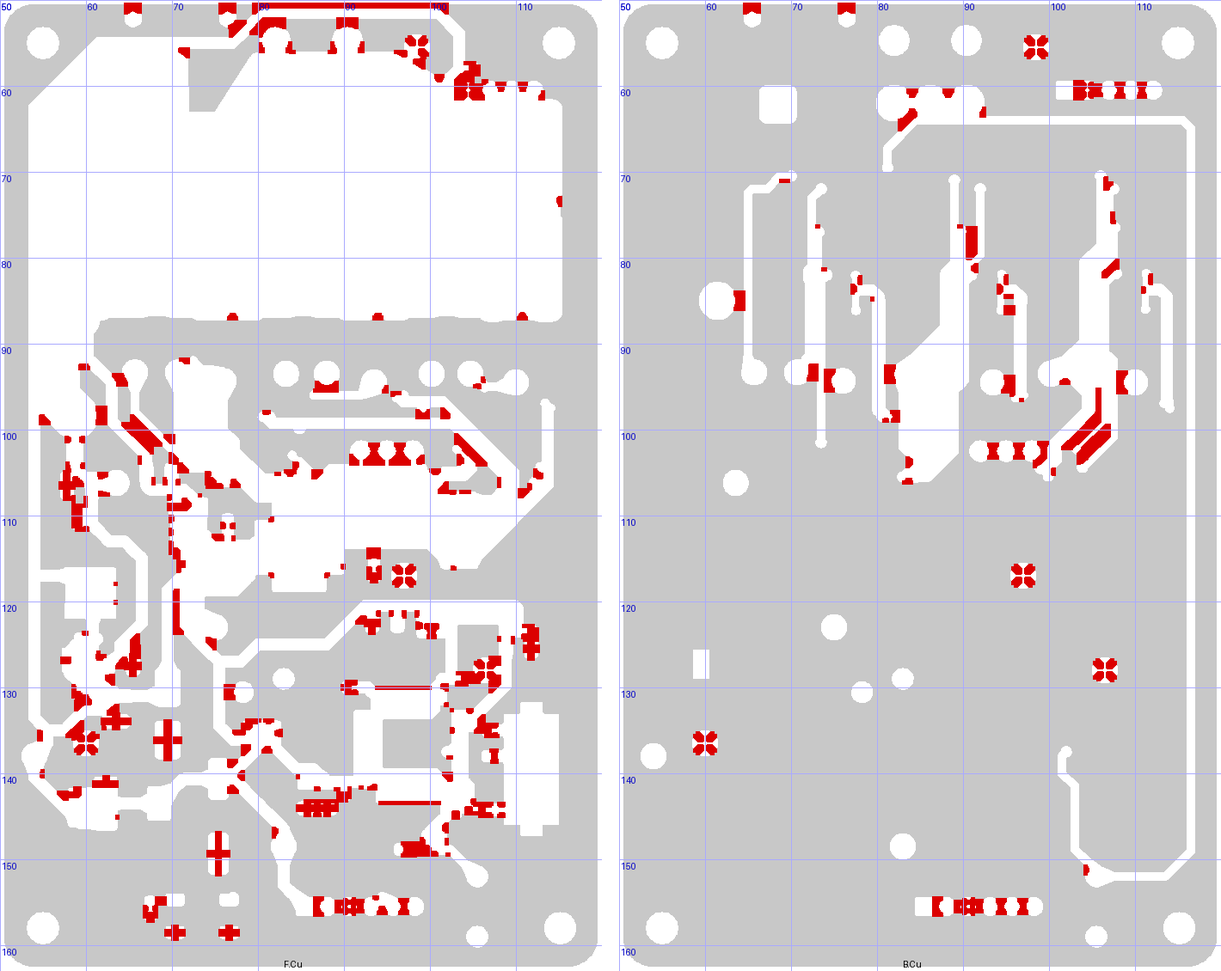
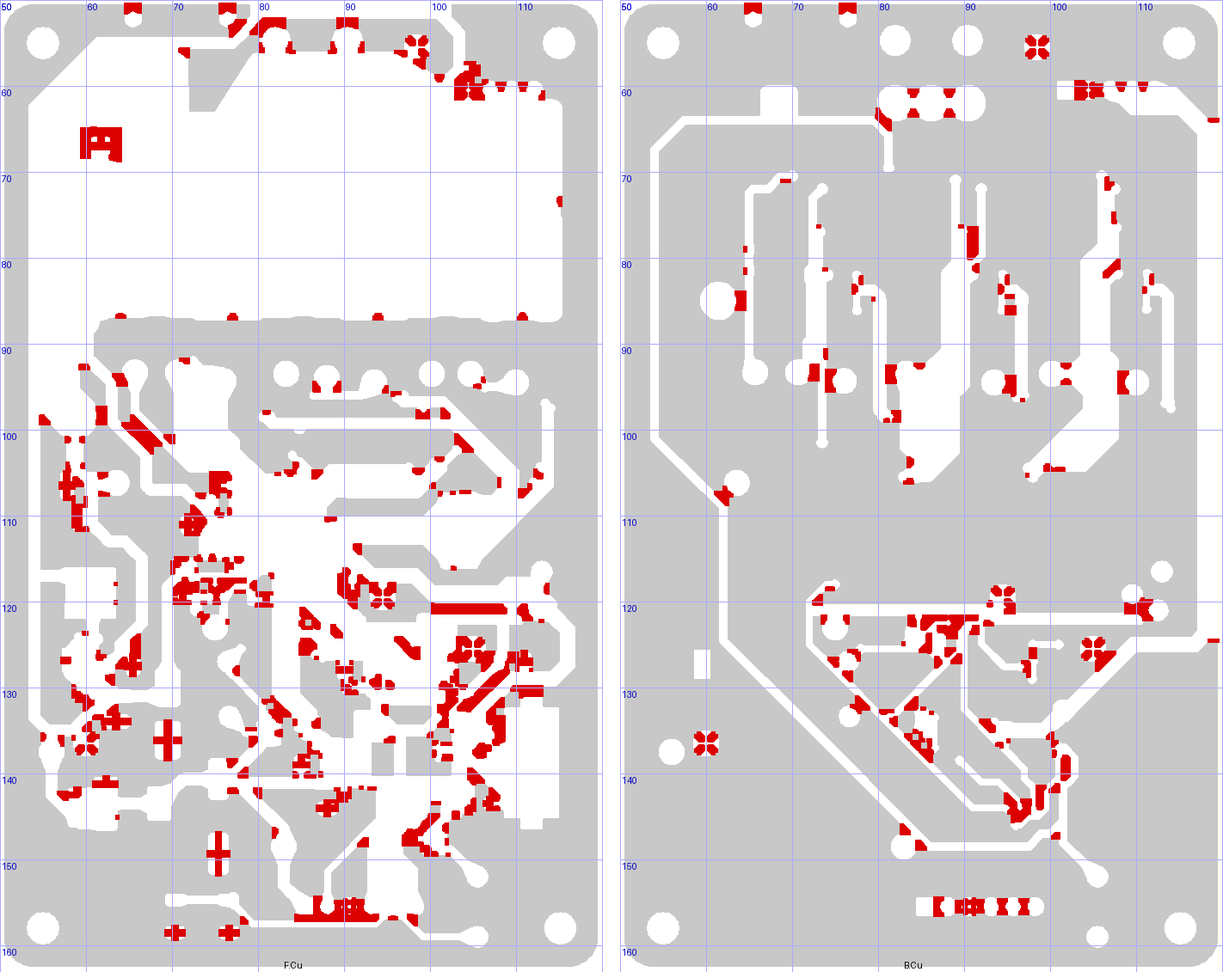
feat(hw15): update README and add checklist for homework 15, including EMC/EMI results and documentation

diff --git a/assignments/homework_15/pull-request.md b/assignments/homework_15/pull-request.md
@@ -1,0 +1,123 @@
+## Завдання
+
+Електромагнітна сумісність (EMC/EMI):
+- закінчити трасування плати;
+- залити земляний полігон, зшити (stitching) землі на різних шарах;
+- якщо є BT-модуль — зробити виріз полігону землі (cut-out) за datasheet;
+- пройти DRC.
+
+**Звіт по 15 домашньому завданню:** [`assignments/homework_15/README.md`](../blob/hw15/assignments/homework_15/README.md).
+
+## Що зроблено
+
+Плата розведена повністю: **DRC — 0 порушень, 0 нерозведених** (на початку — 118), 0 розбіжностей
+зі схемою; ERC — 0.
+
+![Шари міді: F.Cu, In1.Cu, In2.Cu, B.Cu](../blob/hw15/assignments/homework_15/images/layers.png?raw=true)
+
+**1. Шари і полігони GND.** Стек сигнал / GND / GND / сигнал:
+
+| Шар | Призначення |
+|-----|-------------|
+| F.Cu | компоненти, сигнали, силові полігони ДЗ 13, заливка GND |
+| In1.Cu | суцільний GND, доріжки заборонені правилом `in1_gnd_no_tracks` |
+| In2.Cu | суцільний GND, без доріжок |
+| B.Cu | сигнали, заливка GND |
+
+- GND — пріоритет 0, силові полігони — 1–6; зазор GND до силової міді 1 мм.
+- Силові GND-пади (шунти, C25/C29/C32, XT1) і via термопада U2 — суцільно, без термобар'єра.
+- Землю не ділю на AGND/PGND: струм двигуна повертається від шунтів по In1/In2/B.Cu прямо під
+  силовим каскадом до XT1 і не проходить під MCU.
+
+**2. Трасування.** Сигнали — лише на F.Cu і B.Cu (доріжка на внутрішньому шарі прорізала б
+опорну землю).
+
+| Вузол | Що зроблено |
+|-------|-------------|
+| Драйвер U2 | конденсатори підкачки заряду й живлення впритул до виводів (DVDD 8.6 → 2.1 мм, CP1 9–10 → 3.6/5.2 мм, VCPH 12.4 → 4.3 мм), усе на F.Cu без via; додано C45 1 мкФ на VREF |
+| PWM, SPI, керування | 22–27 мм; порядок виводів INH/INL на U1 і U2 зворотний — перехрестя короткими ділянками на B.Cu |
+| `ANALOG.SO1–3` | SO1 ↔ SO3 поміняно на входах АЦП → усі три по F.Cu без via; TP4–TP6 на самій трасі |
+| MCU | C13 (NRST) 40 → 4 мм, C7 (VDDA) 12.9 → 4.1 мм, C10 (VCAP_2) 6.5 → 4.3 мм; кварц на F.Cu без via |
+| HALL, TEMP | по B.Cu, відсунуті від краю плати (язик GND уздовж краю 81 мм прибрано) |
+
+**3. Stitching.** 549 via GND:
+- біля кожного GND-пада SMD (≤ 1 мм від краю пада);
+- 8 × 0.8/0.4 на GND-пад кожного шунта (≈ 2.4 А на via), по 3 біля C25/C29/C32 і TVS VD1;
+- сітка 5 мм у заливках і 53 via по периметру. Крок 5 мм: для фронтів PWM ≲ 300 МГц λ/20 ≈ 25 мм;
+  спроба з кроком 1 мм (2343 via) нічого не давала й порушувала hole-to-hole;
+- via GND біля сигнальних via (≤ 2–3 мм) — зворотний струм переходить з In1 на In2.
+
+**4. BT cut-out** — не застосовно, радіомодуля немає.
+
+**5. Перевірки.**
+
+| Перевірка | Результат |
+|-----------|-----------|
+| DRC (з перезаливкою полігонів) | 0 порушень, 0 нерозведених, 0 розбіжностей зі схемою |
+| ERC | 0 / 0 |
+| Board Statistics | 623 наскрізних via; 2 мікровія (не ловить DRC) знайдено й виправлено на Through |
+| `check-parallel.py` | Kelvin/CS ↔ затвори, фази, PWM — зазор < 2 мм відсутній |
+| `check-gnd-tongues.py` | кожен шматок заливки > 1 мм² має via; In1/In2 — по одному шматку |
+
+**Зміни схеми, прошивки й налаштувань плати:**
+
+| Що | Було | Стало | Чому |
+|----|------|-------|------|
+| VREG (VREF) DRV8305N | R9 330 Ом від VDDA, без конденсатора | + C45 1 мкФ біля виводу 48 | фільтр опорної напруги підсилювачів струму ≈ 480 Гц |
+| Входи АЦП | SO1 → PC1, SO3 → PC3 | SO1 → PC3 (ADC3_IN13), SO3 → PC1 (ADC1_IN11) | траса SO без перехресть і via; канали АЦП ті самі |
+| Мін. зазор / доріжка | 0.1 / 0.15 мм | 0.2 / 0.2 мм | дешевше у виробництві |
+
+## Де дивитися
+
+- **Звіт:** [`assignments/homework_15/README.md`](../blob/hw15/assignments/homework_15/README.md)
+- **Інженерні рішення та відкриті питання:** [`design-notes.md`](../blob/hw15/motor-drive-controller/docs/design-notes.md)
+- **Плата:** [`motor-drive-controller.kicad_pcb`](../blob/hw15/motor-drive-controller/hardware/kicad/motor-drive-controller.kicad_pcb), правила DRC — [`motor-drive-controller.kicad_dru`](../blob/hw15/motor-drive-controller/hardware/kicad/motor-drive-controller.kicad_dru)
+- **Схеми:** [`gate-driver.kicad_sch`](../blob/hw15/motor-drive-controller/hardware/kicad/gate-driver.kicad_sch) (C45), [`mcu.kicad_sch`](../blob/hw15/motor-drive-controller/hardware/kicad/mcu.kicad_sch) (SO1 ↔ SO3)
+- **Скрипти перевірки:** [`tools/check-parallel.py`](../blob/hw15/tools/check-parallel.py), [`tools/check-gnd-tongues.py`](../blob/hw15/tools/check-gnd-tongues.py)
+- **Перевірка за чеклістом:** [`checklist.md`](../blob/hw15/assignments/homework_15/checklist.md)
+- **Схема у PDF, BOM, звіт ERC, звіт `.docx`:** вкладка **Checks → CI → Artifacts**.
+
+Локально:
+- `make hardware` — ERC + PDF + BOM;
+- `make report HW=15` — звіт у `.docx`;
+- `tools/check-gnd-tongues.py motor-drive-controller/hardware/kicad/motor-drive-controller.kicad_pcb --refill` — язики заливки GND.
+
+## Стан ERC/DRC і відкриті питання
+
+ERC: **0 error, 0 warning**. DRC: **0 порушень, 0 нерозведених**, 0 розбіжностей зі схемою.
+
+Відкриті питання:
+- **Пайка XT1 і J5** (з ДЗ 13) — пади під'єднані суцільно, перевірити на прототипі.
+- **Щілина 12.5 мм в In1/In2 під J5** — злиті антипади виводів роз'єму; сигнали над нею не йдуть — прийнято.
+- **Прошивка:** після обміну SO1 ↔ SO3 фазу A міряє ADC3, фазу C — ADC1.
+
+## Чекліст
+
+Детальна перевірка кожного пункту — у [`checklist.md`](../blob/hw15/assignments/homework_15/checklist.md).
+
+**Звіт**
+- [x] Звіт у Markdown, зображення в `images/`
+- [x] Рішення внесені в `design-notes.md`
+- [x] Документація проєкту (README, `architecture.md`) оновлена
+
+**Завдання**
+- [x] Трасування закінчено: 0 нерозведених
+- [x] Полігони GND на всіх шарах, In1/In2 суцільні
+- [x] Stitching: 549 via GND, крок 5 мм, периметр, via біля падів і сигнальних via
+- [x] BT cut-out — не застосовно
+- [x] DRC: 0 порушень
+
+**Схема (KiCad)**
+- [x] ERC: 0 error, 0 warning
+- [x] C45 на VREF, SO1 ↔ SO3
+- [x] BOM: 37 рядків, 89 компонентів
+
+**Плата (PCB)**
+- [x] DRC 0 / 0, без мікровія
+- [x] PWM ≠ аналог (`check-parallel.py`)
+- [x] Цілісність землі (`check-gnd-tongues.py`)
+- [x] Щілина під J5 — прийнято
+
+**Репозиторій**
+- [x] Немає абсолютних шляхів
+- [x] Скрипт `tools/check-gnd-tongues.py`

diff --git a/assignments/homework_15/checklist.md b/assignments/homework_15/checklist.md
@@ -1,0 +1,99 @@
+# Заняття 15: перевірка за чеклістом PR
+
+Стан гілки `hw15` на 19.11.2026. Перевірено автоматично:
+- ERC, схема PDF і BOM (`kicad-cli` 10.0.5, `make hardware`);
+- DRC на копії плати з перезаливкою полігонів і перевіркою відповідності схемі
+  (`kicad-cli pcb drc --refill-zones --schematic-parity --severity-all`);
+- Board Statistics (`kicad-cli pcb export stats`): типи via, отвори;
+- паралельні ділянки PWM, затворів, фаз і аналогових ліній ([`tools/check-parallel.py`](../../tools/check-parallel.py));
+- вузькі язики й острівці заливки GND ([`tools/check-gnd-tongues.py`](../../tools/check-gnd-tongues.py));
+- суцільність In1.Cu / In2.Cu (растр заливки, щілини ≥ 3 мм);
+- посилання на зображення й файли у звіті.
+
+Позначки: ✅ виконано · ⚠ частково · ❌ не виконано
+
+## Звіт
+
+- [x] ✅ **Звіт у Markdown, зображення в `images/`.**
+  [`README.md`](README.md) містить:
+  - розділ «Результат»: підсумкова таблиця, шари міді, 3D-вид, ключові рішення;
+  - план з 11 етапів (0–10) і для кожного — вимоги, що зроблено, перевірку, що прийнято;
+  - відкриті питання.
+
+  Усі 10 зображень на місці (`layers.png`, `3d-top.png`, `u2-area.png`,
+  `mcu-crystal.png`, `shunt-vias.png`, `gnd-tongues.png`, `remove-poligon-from-GND.png`,
+  `MCU.png`, `DC-DC.png`, `LDO.png`).
+- [x] ✅ **Рішення внесені в `design-notes.md`.**
+  - закрито пункти ДЗ 13 «GND не розведено» і «Сигнали MCU і драйвера не розведені»;
+  - VREG DRV8305N: конденсатор VREF C45 1 мкФ, R9 + C45 ≈ 480 Гц (позначення C16 після
+    перенумерації дісталося CP1);
+  - таблиця АЦП: SO1 ↔ SO3 поміняно, причина.
+- [x] ✅ **Документація проєкту оновлена.** Кореневий `README.md` (стан, інструмент
+  `check-gnd-tongues.py`), `assignments/README.md` (рядки ДЗ 14 і 15), `motor-drive-controller/README.md`
+  (стан плати, таблиця сигналів MCU), `docs/architecture.md` (SO → АЦП, VREG, шари PCB).
+
+## Завдання
+
+- [x] ✅ **Закінчити трасування плати.** DRC: **0 нерозведених** (на початку — 118).
+  Розведено: живлення драйвера U2 (п. 2), PWM/SPI/керування (п. 3), `ANALOG.SO1–3` (п. 4),
+  MCU — кварц, VCAP, NRST/BOOT0, SWD, HALL, TEMP (п. 3, 5). Сигнали лише на F.Cu і B.Cu.
+- [x] ✅ **Залити земляний полігон.** GND на всіх 4 шарах, пріоритет 0 (силові полігони — 1–6);
+  In1.Cu і In2.Cu — суцільні, по одному шматку; правило `in1_gnd_no_tracks`, зазор GND до
+  силової міді 1 мм (`gnd_zone_to_high_current`), суцільне підключення силових GND-падів
+  (`gnd_power_solid`) і термопада U2 (`u2_thermal_vias_solid`).
+- [x] ✅ **Зшити землі на різних шарах (stitching).** 549 via GND:
+  - via біля кожного GND-пада SMD (50 з 52 — ≤ 1 мм від краю пада; SW1 — 1.1 мм);
+  - 8 × 0.8/0.4 на GND-пад кожного шунта, по 3 біля C25/C29/C32, 3 біля TVS VD1;
+  - сітка 5 мм у заливках, 53 via по периметру;
+  - via GND біля сигнальних via: ≤ 2 мм — 22, 2–3 мм — 13, > 3 мм — 3 (повільні лінії).
+- [x] ✅ **BT cut-out.** Не застосовно — радіомодуля на платі немає (п. 8).
+- [x] ✅ **Пройти DRC.** 0 порушень, 0 нерозведених, 0 помилок footprint, 0 розбіжностей зі схемою.
+
+## Схема (KiCad)
+
+- [x] ✅ **ERC: 0 error, 0 warning.**
+- [x] ✅ **Зміни схеми.** C45 1 мкФ на VREG (VREF) DRV8305N; SO1 ↔ SO3 на входах MCU
+  (`mcu.kicad_sch`) разом з `.ioc`, `main.h`, `stm32f4xx_hal_msp.c`.
+- [x] ✅ **BOM.** 37 рядків, 89 компонентів (+ C45); Manufacturer, MPN і Supplier заповнені в усіх рядках.
+
+## Плата (PCB)
+
+- [x] ✅ **DRC: 0 / 0.** Вимкнені перевірки не ховають помилок: «Footprint has no courtyard» —
+  лише NetTie NT1–NT13.
+- [x] ✅ **Технологічні параметри.** Мін. доріжка / зазор 0.2 / 0.2 мм (замість 0.15 / 0.1 —
+  дешевше у виробництві), мін. отвір 0.3 мм; 623 наскрізних via, мікро / глухих — 0
+  (2 мікровія знайдено в Board Statistics і виправлено).
+- [x] ✅ **PWM ≠ аналог.** `check-parallel.py`: Kelvin/CS-лінії ↔ затвори, фази, PWM — зазор
+  < 2 мм відсутній; SO, TEMP, HALL, OSC ↔ цифрові й силові — < 1 мм лише NRST біля виводів U1
+  (NRST майже не перемикається, C13 100 нФ біля виводу).
+- [x] ✅ **Цілісність землі.** Шматків заливки > 1 мм² без via — 0; язики GND F.Cu 130 мм²,
+  B.Cu 38 мм² (було 119 мм² на B.Cu до перенесення TEMP і HALL від краю).
+- [x] ⚠ **Щілина 12.5 мм в In1/In2 під J5.** Злиті антипади THT-виводів роз'єму двигуна;
+  над нею сигнальні лінії не проходять — прийнято.
+
+## Репозиторій
+
+- [x] ✅ **Немає абсолютних шляхів.** У змінах гілки немає `/home/`.
+- [x] ✅ **Скрипт перевірки в `tools/`.** `tools/check-gnd-tongues.py` (`--help`, `--refill`, `--png`).
+- [x] ✅ **Правила `.kicad_dru` редагуються в Board Setup без втрат.** Коментарі в тілі правил,
+  одне обмеження на правило (via_diameter + hole_size — разом), мережі перелічені явно.
+
+## Підсумок
+
+| Розділ | ✅ | ⚠ | ❌ |
+|--------|:--:|:--:|:--:|
+| Звіт | 3 | – | – |
+| Завдання | 5 | – | – |
+| Схема | 3 | – | – |
+| Плата | 4 | 1 | – |
+| Репозиторій | 3 | – | – |
+| **Разом (19)** | **18** | **1** | **–** |
+
+Обов'язкові вимоги завдання 15 виконані: трасування закінчено, полігони GND залиті на всіх
+шарах, землі зшиті via, DRC пройдено (0 / 0). BT cut-out не потрібен.
+
+Додатково:
+- додано відсутній конденсатор VREF драйвера (C45);
+- SO1 ↔ SO3 на входах АЦП — аналогові лінії без via;
+- скрипт `tools/check-gnd-tongues.py` для пошуку вузьких язиків заливки;
+- знайдено поза DRC і виправлено 2 мікровія.

diff --git a/motor-drive-controller/README.md b/motor-drive-controller/README.md
@@ -10,7 +10,7 @@
 | Конфігурація MCU: SYSCLK 168 МГц, TIM1 ШІМ 20 кГц (center-aligned), SPI1 5.25 МГц, ADC1/2/3 triple injected simultaneous, GPIO драйвера і датчиків Холла | CubeMX (ДЗ 7–9) | [`firmware/motor-drive-controller.ioc`](firmware/motor-drive-controller.ioc) |
 | Прошивка: ініціалізація периферії, збірка CMake | збирається в CI | [`firmware/`](firmware/) |
 | Блок живлення: XT30 → запобіжник 1206TD-10AS → TVS SMBJ18A → шини +12M (SS10P4) / +12V (SS14), buck LMR51610 12 → 5 В, LDO AZ1117C 5 → 3.3 В, електроліти 150 мкФ на виходах | схема (ДЗ 10, 11, 12) | [`hardware/kicad/power.kicad_sch`](hardware/kicad/power.kicad_sch) |
-| Друкована плата: монтажні отвори M3, тестові точки, розміщення (ДЗ 12); трасування силової частини — доріжки 3.5 мм і полігони на F.Cu, Kelvin-лінії шунтів, правила `high_current` (ДЗ 13); лінії живлення 12V, 12_M, 5V, 3V3 — DC/DC і LDO (ДЗ 14, виконано в рамках ДЗ 13); GND і сигнали MCU не розведені | в роботі (ДЗ 12–14) | [`hardware/kicad/motor-drive-controller.kicad_pcb`](hardware/kicad/motor-drive-controller.kicad_pcb) |
+| Друкована плата: монтажні отвори M3, тестові точки, розміщення (ДЗ 12); трасування силової частини — доріжки 3.5 мм і полігони на F.Cu, Kelvin-лінії шунтів, правила `high_current` (ДЗ 13); лінії живлення 12V, 12_M, 5V, 3V3 — DC/DC і LDO (ДЗ 14, виконано в рамках ДЗ 13); повне трасування сигналів, In1/In2 — суцільний GND, stitching via, DRC 0 / 0 нерозведених (ДЗ 15) | в роботі (ДЗ 12–15) | [`hardware/kicad/motor-drive-controller.kicad_pcb`](hardware/kicad/motor-drive-controller.kicad_pcb) |
 
 Листи з'єднані ієрархічними шинами: `DRV{PWM6}`, `DRV{SPI}`, `DRV{CTRL}`,
 `DRV{STATUS}` (MCU ↔ Gate Driver), `GATE{GATE6}`, `PH{SENSE6}`, `CS{SHUNT6}`
@@ -35,18 +35,18 @@
 | DRV.WAKE | PC10 | вихід open-drain, FT (10 кОм до 5 В) | DRV8305 |
 | DRV.nFAULT | PC4 | вхід (open-drain, 10 кОм до 3.3 В) | DRV8305 |
 | DRV.PWRGD | PC5 | вхід (open-drain, 10 кОм до 3.3 В) | DRV8305 |
-| ANALOG.SO1 / SO2 / SO3 | PC1 / PC2 / PC3 | ADC1_IN11 / ADC2_IN12 / ADC3_IN13, injected, тригер TIM1 TRGO | виходи CSA драйвера |
+| ANALOG.SO1 / SO2 / SO3 | PC3 / PC2 / PC1 | ADC3_IN13 / ADC2_IN12 / ADC1_IN11, injected, тригер TIM1 TRGO (SO1 ↔ SO3 поміняно в ДЗ 15) | виходи CSA драйвера |
 | ANALOG.TEMP | PC0 | ADC1_IN10, regular | NTC на інверторі |
 | HALL1–HALL3 | PC6–PC8 | вхід, FT (5 V tolerant) | роз'єм J2 |
 
 ## Стан розведення плати
 
-ERC: 0 помилок, 0 попереджень. DRC: 0 порушень, 0 розбіжностей зі схемою (ДЗ 13).
-Розведено силову частину від XT1 до ключів, шунтів і J5 (на F.Cu, без via) та Kelvin-лінії
-шунтів до фільтрів CSA. Лишається:
+ERC: 0 помилок, 0 попереджень. DRC: 0 порушень, **0 нерозведених**, 0 розбіжностей зі схемою
+(ДЗ 15). Плата розведена повністю: силова частина на F.Cu (ДЗ 13), сигнали MCU і драйвера на
+F.Cu/B.Cu, In1.Cu і In2.Cu — суцільні шари GND, 549 via GND (stitching з кроком 5 мм, via біля
+кожного GND-пада, 8 via 0.8/0.4 на GND-пад шунта) — див. [ДЗ 15](../assignments/homework_15/README.md).
+Лишається:
 
-- **GND** — полігон землі, полігон GND між шунтами й C25/C29/C32, via біля шунтів;
-- **сигнали MCU і драйвера** — зокрема PWM і `ANALOG.SO1–3` подалі від фільтрів CSA;
 - **тепловідведення VD3 (SS10P4)** — ≈ 2.1 Вт при 5 А; полігон `+12M` на F.Cu є,
   полігону на B.Cu і via під катодом ще немає;
 - **захисні резистори** між SOx і входами АЦП;

diff --git a/assignments/README.md b/assignments/README.md
@@ -16,6 +16,7 @@
 | 12 | Основи PCB Layout та технології виробництва | [README](homework_12/README.md) | [`motor-drive-controller.kicad_pcb`](../motor-drive-controller/hardware/kicad/motor-drive-controller.kicad_pcb), [`motor-drive-controller.kicad_sch`](../motor-drive-controller/hardware/kicad/motor-drive-controller.kicad_sch) | в роботі |
 | 13 | Трасування (Routing) та полігони | [README](homework_13/README.md) | [`motor-drive-controller.kicad_pcb`](../motor-drive-controller/hardware/kicad/motor-drive-controller.kicad_pcb), [`motor-drive-controller.kicad_dru`](../motor-drive-controller/hardware/kicad/motor-drive-controller.kicad_dru), [`inverter.kicad_sch`](../motor-drive-controller/hardware/kicad/inverter.kicad_sch), [`tools/check-parallel.py`](../tools/check-parallel.py) | в роботі |
 | 14 | Трасування проєкту: лінії живлення 12V, 12_M, 5V, 3V3 | [README](homework_14/README.md) | виконано в рамках ДЗ 13: [`motor-drive-controller.kicad_pcb`](../motor-drive-controller/hardware/kicad/motor-drive-controller.kicad_pcb) | разом з ДЗ 13 |
+| 15 | Електромагнітна сумісність (EMC/EMI) | [README](homework_15/README.md) | [`motor-drive-controller.kicad_pcb`](../motor-drive-controller/hardware/kicad/motor-drive-controller.kicad_pcb), [`motor-drive-controller.kicad_dru`](../motor-drive-controller/hardware/kicad/motor-drive-controller.kicad_dru), [`tools/check-gnd-tongues.py`](../tools/check-gnd-tongues.py) | в роботі |
 
 **Здача:** Release `hwNN` — зафіксований стан на момент здачі з готовими файлами
 (звіт `.docx`, схема PDF, BOM); PR — завдання на перевірці. Після прийняття PR

diff --git a/README.md b/README.md
@@ -5,12 +5,12 @@
 Навчальний репозиторій курсу: домашні завдання та наскрізний проєкт —
 **контролер BLDC-двигуна** на STM32F405 (трифазний інвертор 12 В / 5 А).
 
-**Поточний стан:** виконано ДЗ 1–11 (ДЗ 12 і 13 — в роботі; ДЗ 14 виконано в рамках ДЗ 13).
+**Поточний стан:** виконано ДЗ 1–11 (ДЗ 12, 13 і 15 — в роботі; ДЗ 14 виконано в рамках ДЗ 13).
 Схема: силовий інвертор (AOD4184A), драйвер затворів DRV8305, MCU STM32F405
 з конфігурацією CubeMX, блок живлення 12 → 5 → 3.3 В; прошивка збирається в CI.
 Друкована плата — розміщення компонентів (ДЗ 12) і трасування силової частини:
 доріжки 3.5 мм, полігони, Kelvin-підключення шунтів, лінії живлення 12V, 12_M, 5V, 3V3
-(ДЗ 13, 14).
+(ДЗ 13, 14); повне трасування, суцільні шари GND In1/In2 і stitching via, DRC 0 (ДЗ 15).
 Відкриті інженерні питання — у [`design-notes.md`](motor-drive-controller/docs/design-notes.md).
 
 | Що | Де |
